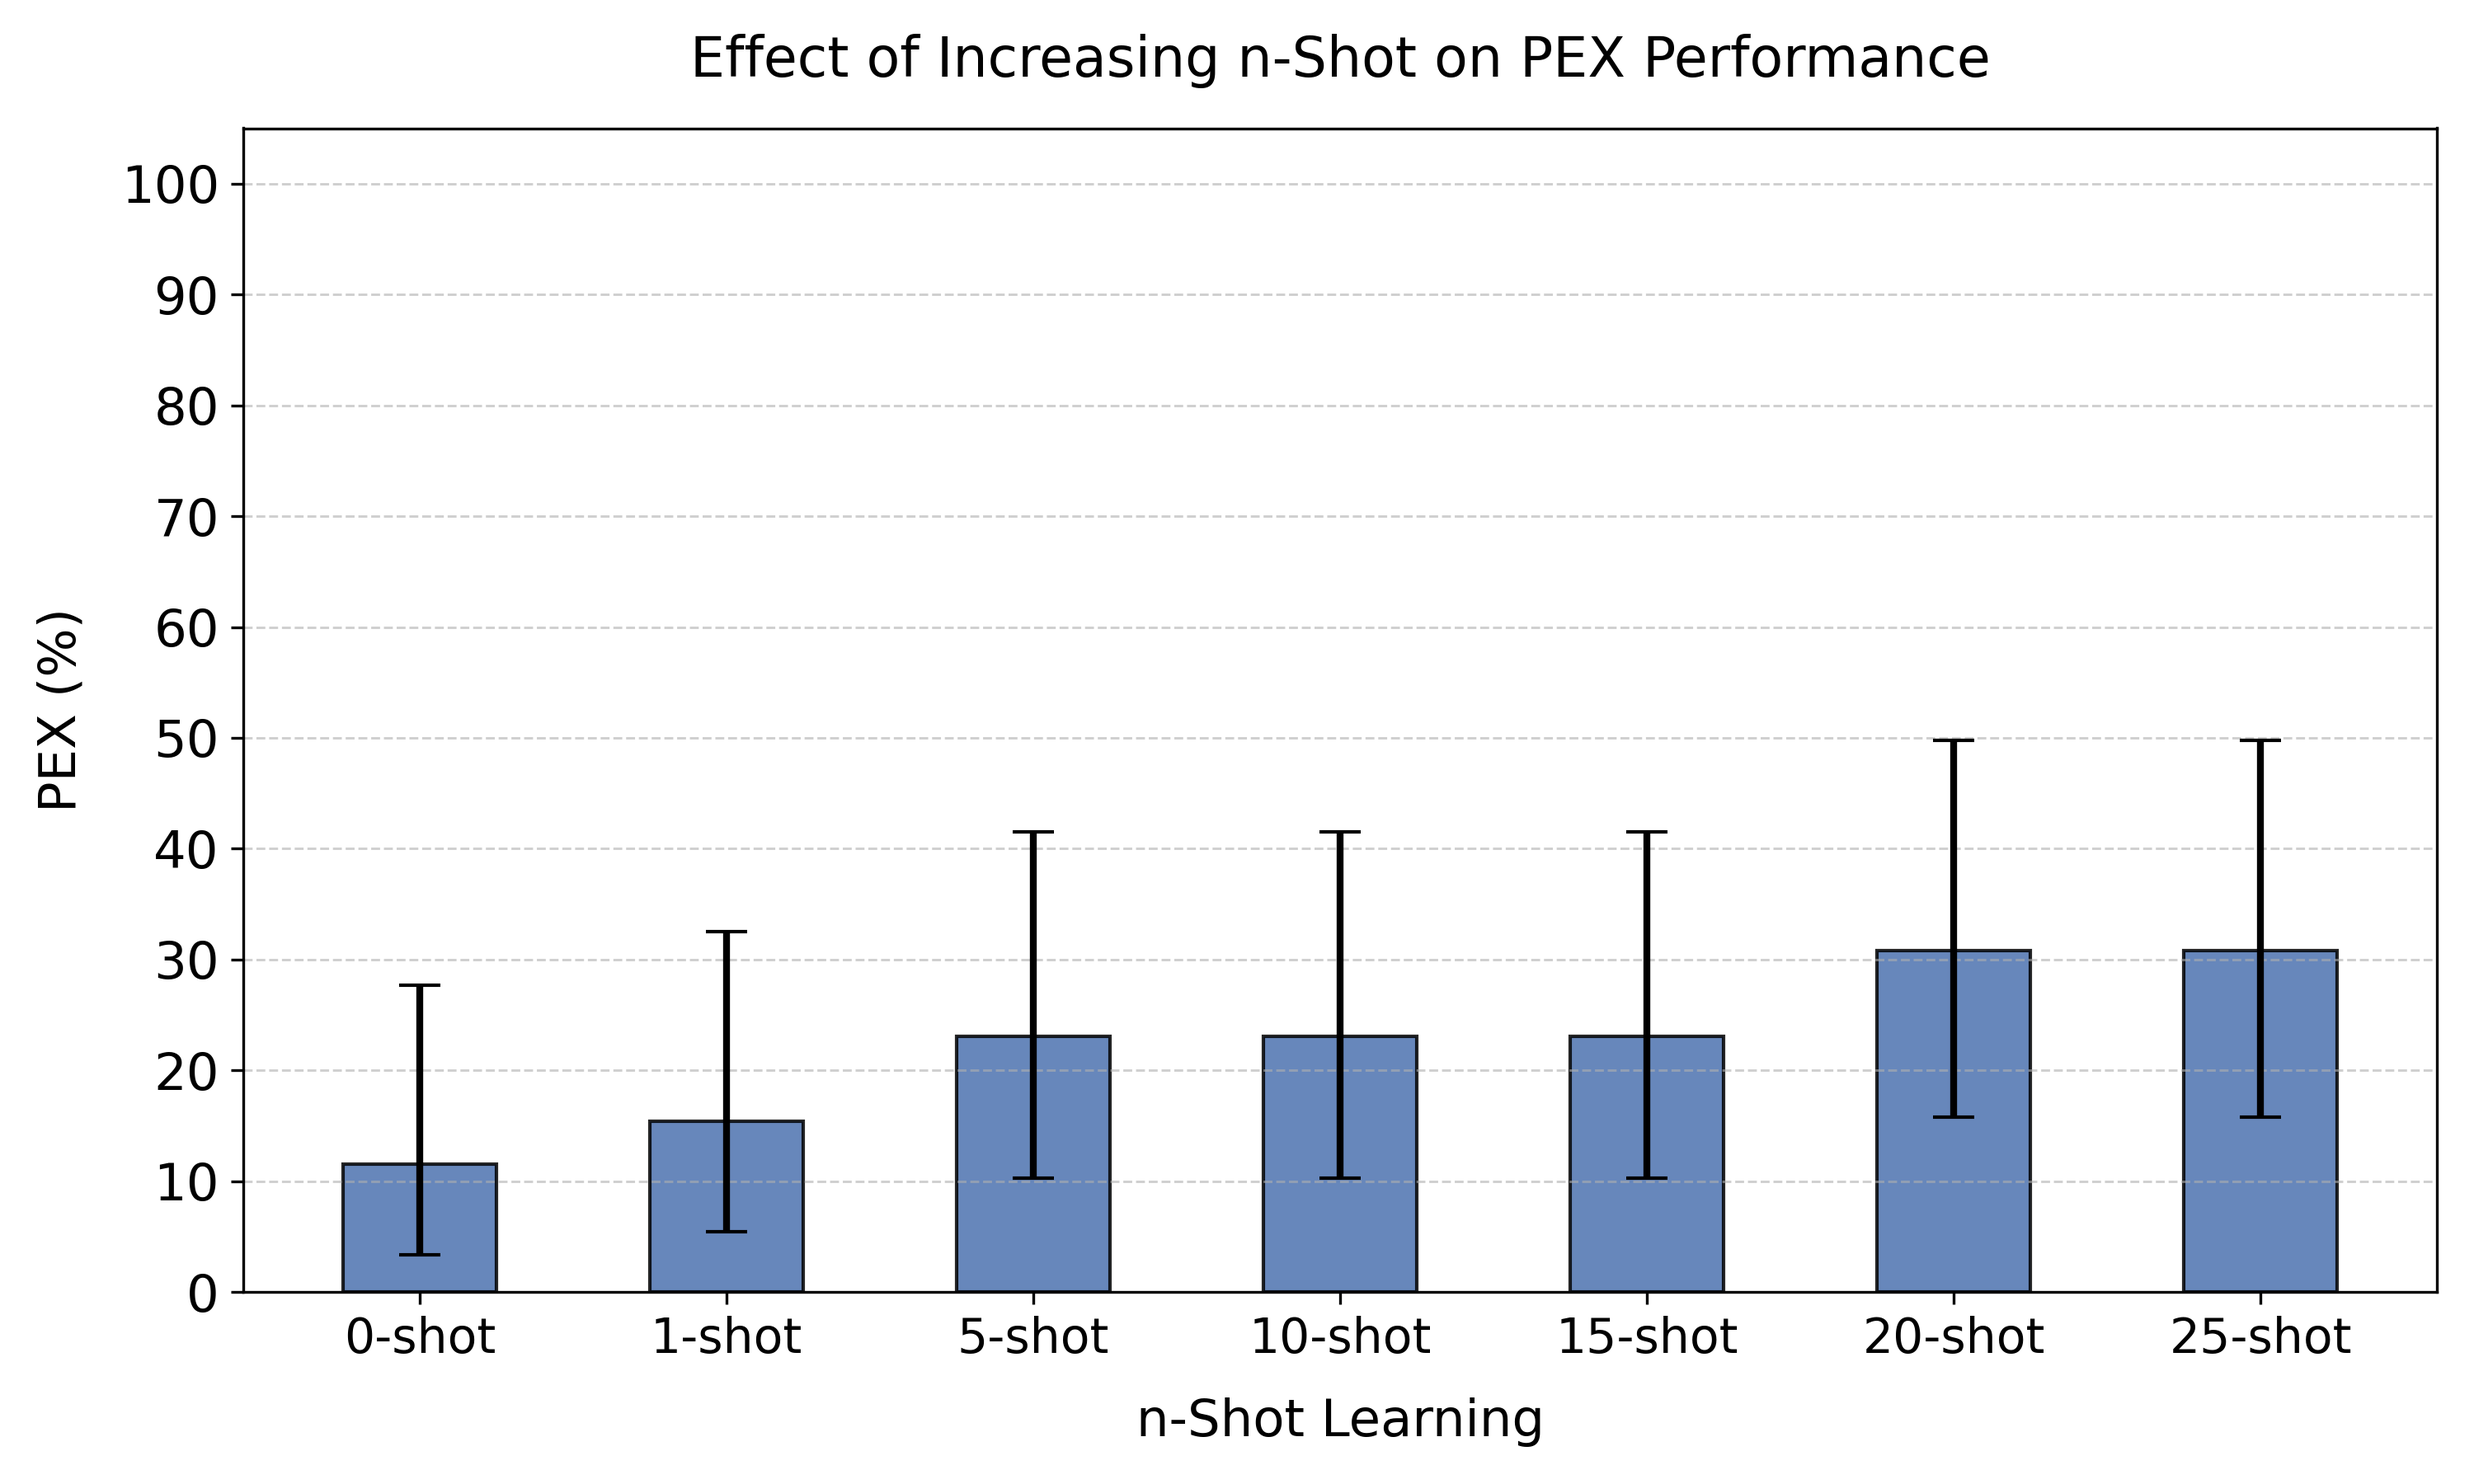
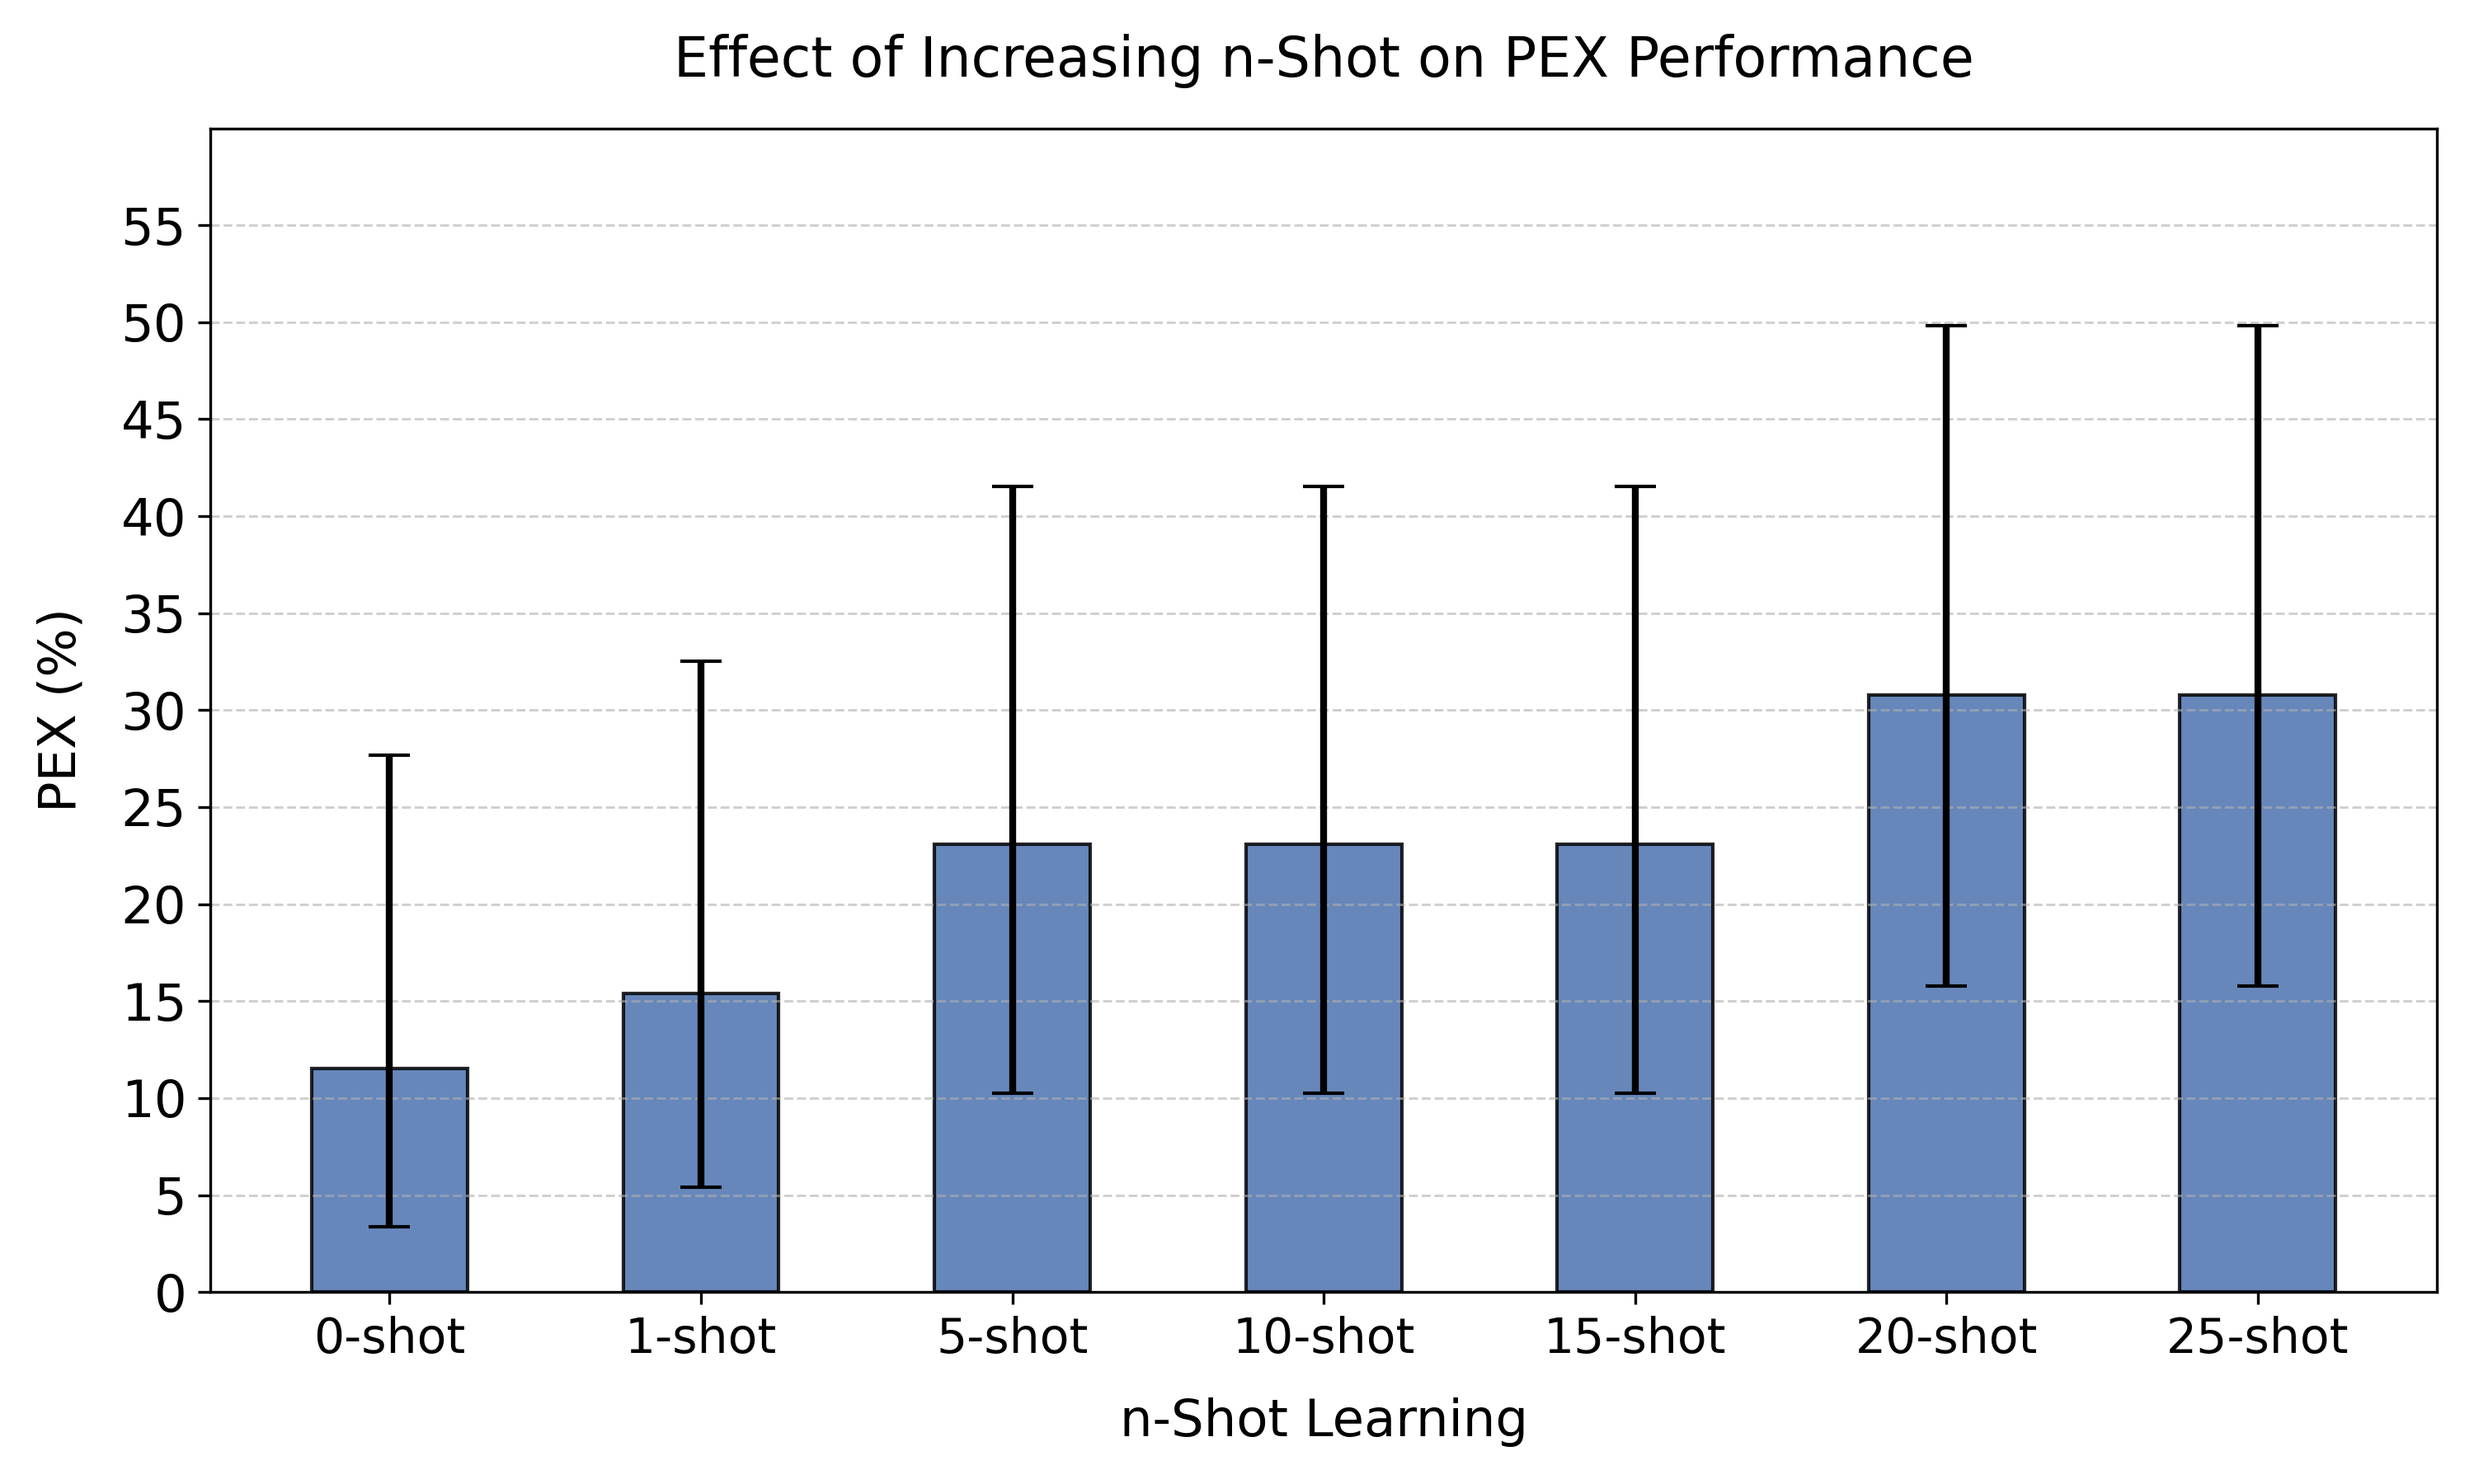
pex y axis till 60

diff --git a/vis_nshot_pex.py b/vis_nshot_pex.py
@@ -3,8 +3,6 @@ import matplotlib.pyplot as plt
 import pandas as pd
 from scipy.stats import beta
 
-# TRY THIS EXPERIMENT WITHOUT RL.
-
 # Function to compute 95% confidence intervals using a Beta distribution
 def proportion_ci(n, p):
     a = n * p + 0.5
@@ -45,9 +43,9 @@ ax.grid(axis='y', linestyle='--', linewidth=0.7, alpha=0.6)
 # Formatting
 ax.set_xticks(x)
 ax.set_xticklabels(n_shot_levels, fontsize=14)
-ax.set_yticks(np.arange(0, 110, 10))
-ax.set_ylim(0, 105)
-ax.set_yticklabels(np.arange(0, 110, 10), fontsize=15)
+ax.set_yticks(np.arange(0, 60, 5))  # Adjust ticks accordingly
+ax.set_ylim(0, 60)  # Limit y-axis to avoid going up to 100
+ax.set_yticklabels(np.arange(0, 60, 5), fontsize=15)
 
 # Labels and title
 ax.set_ylabel("PEX (%)", fontsize=15, labelpad=10)
